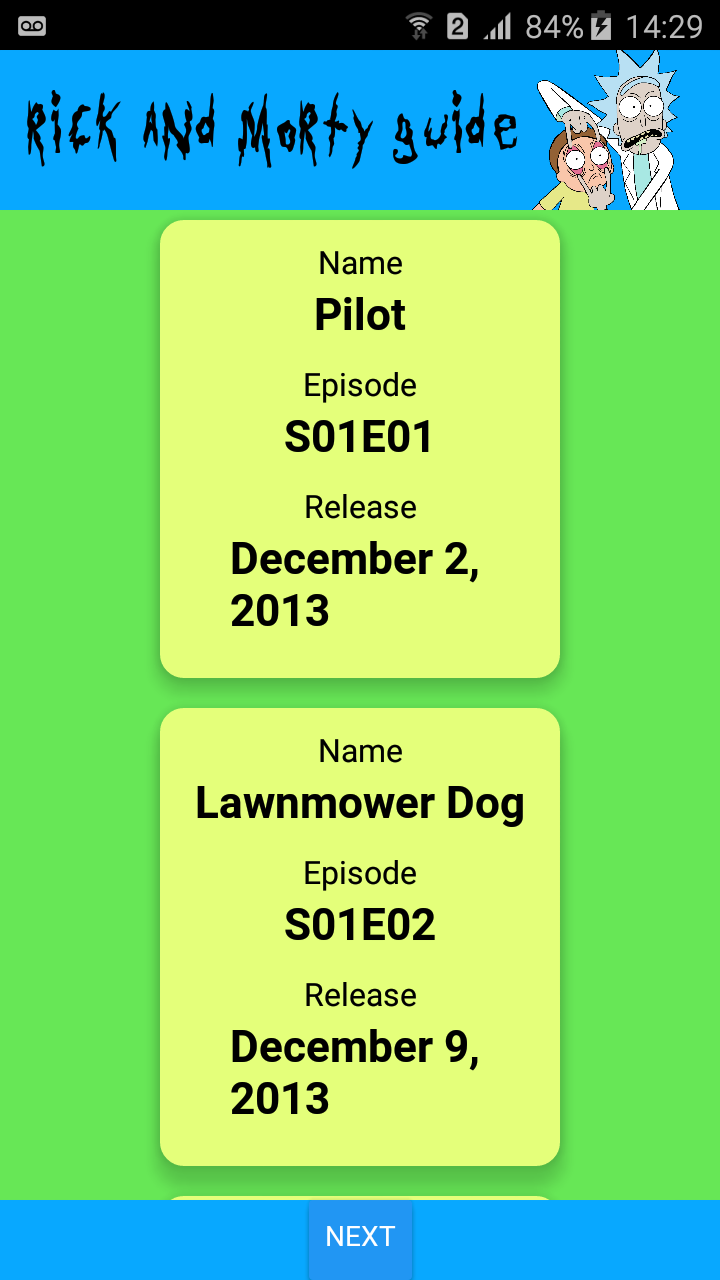
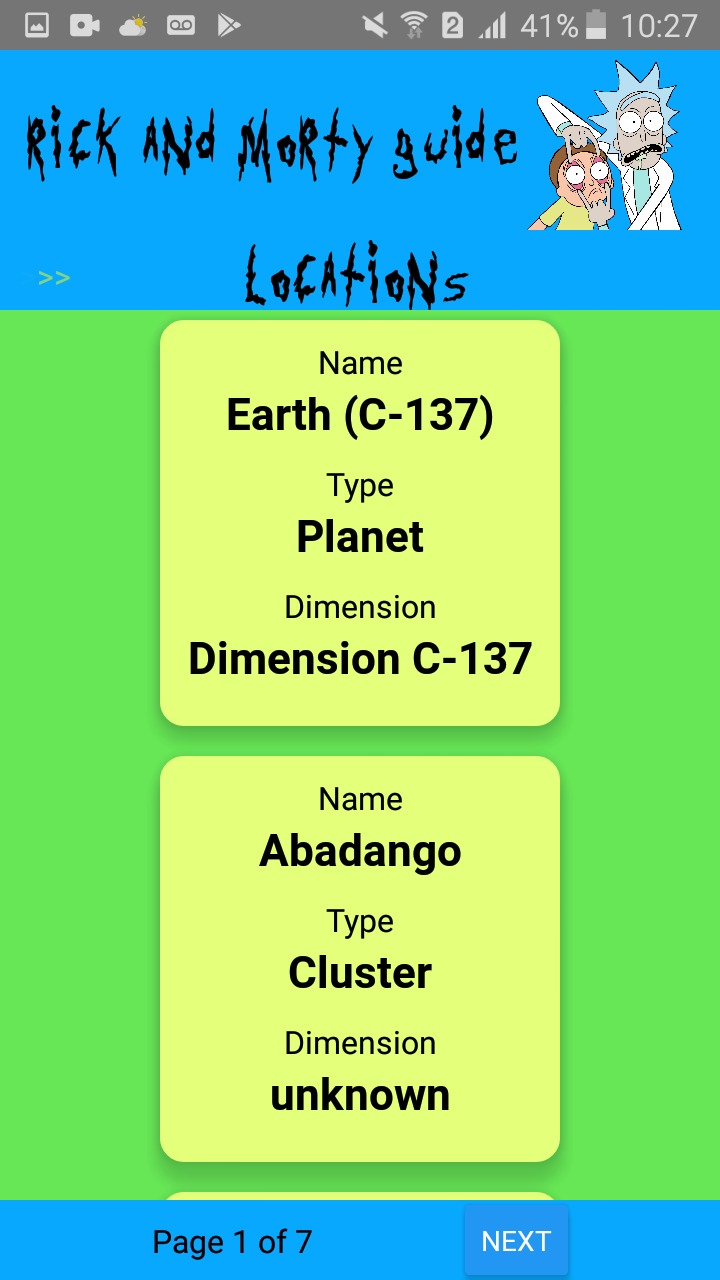
screenshots

Changed region(s): [[0.0, 0.0, 1.0, 0.875], [0.2444, 0.9062, 0.7944, 1.0], [0.2139, 0.9375, 0.3056, 1.0]]

diff --git a/TesteReactNative/src/Widgets/header/index.js b/TesteReactNative/src/Widgets/header/index.js
@@ -1,10 +1,10 @@
 import React from 'react'
 import { StyledHeader, StyledLogo, StyledRickandMorty } from './style'
-
-export default function Header({title}) {
-
+import { useWindowDimensions } from 'react-native'
+export default function Header({title} ) {
+  const windowWidth = useWindowDimensions().width
   return (
-    <StyledHeader>
+    <StyledHeader style={{width:windowWidth}}>
         <StyledRickandMorty testID="title">{title}</StyledRickandMorty>
         <StyledLogo testID="header-image" source={{uri:"https://pluspng.com/img-png/rick-and-morty-png-rick-and-morty-icon-png-1073.png"}}/>
     </StyledHeader>

diff --git a/TesteReactNative/src/pages/HomeScreen/index.js b/TesteReactNative/src/pages/HomeScreen/index.js
@@ -15,9 +15,9 @@ export default function Home({navigation}) {
         transitionStyle='curl'
         showPageIndicator={true}
       style={{flex:1}} initialPage={1}>
-        <View key="1"><Episodes navigation={navigation}/></View>
-        <View key="2"><Characters  navigation={navigation}/></View>
-        <View key="3"><Locations /></View>
+        <View key="1" style={{flex:1}}><Episodes navigation={navigation}/></View>
+        <View key="2" style={{flex:1}}><Characters  navigation={navigation}/></View>
+        <View key="3" style={{flex:1}}><Locations /></View>
       </PagerView>
     </>
   )

diff --git a/TesteReactNative/src/pages/Details/style.js b/TesteReactNative/src/pages/Details/style.js
@@ -3,15 +3,14 @@ import styled from "styled-components/native";
 
 export const StyledDetailsCard = styled.ScrollView`
     padding:10px;
-    width:100%;
-    height:100%;
+    flex:1;
     background-color:#67E756;
 `
 export const StyledEpisodeCard = styled.View`
     margin-top:10px;
     align-items:center;
     padding:10px;
-    width:80%;
+    width:200px;
     height:auto;
     border-radius:12px;
     border:2px solid black;

diff --git a/TesteReactNative/src/Widgets/screendescription/style.js b/TesteReactNative/src/Widgets/screendescription/style.js
@@ -1,10 +1,7 @@
 import styled from "styled-components/native";
 
 export const StyledScreenDescription = styled.View`
-
-     height:35px;
-    width:100%;
-   
+    height:35px;
     background-color:#08A8FF;
     flex-direction:row;
     justify-content:space-between;

diff --git a/TesteReactNative/src/pages/Episodes/style.js b/TesteReactNative/src/pages/Episodes/style.js
@@ -4,7 +4,7 @@ export const StyledPagination = styled.View`
     flex-direction:row;
     justify-content:space-evenly;
     height:40px;
-    width:100%;
+   flex:1;
     background-color:#08A8FF;
 `
 export const StyledPaginationButton = styled.Button`

diff --git a/TesteReactNative/src/components/expanded-card/style.js b/TesteReactNative/src/components/expanded-card/style.js
@@ -2,7 +2,6 @@ import styled from "styled-components/native"
 export const StyledExpandedCard = styled.View`
     margin-bottom:10px;
     elevation:10;
-    width:200px;
     padding:10px;
     align-items:center;
     height:auto;

diff --git a/TesteReactNative/src/Widgets/header/style.js b/TesteReactNative/src/Widgets/header/style.js
@@ -3,7 +3,7 @@ import styled from "styled-components/native";
 
 export const StyledHeader = styled.View`
     height:auto;
-    width:100%;
+    
     padding:5px;
     background-color:#08A8FF;
     flex-direction:row;

diff --git a/TesteReactNative/src/Widgets/footer/styled.js b/TesteReactNative/src/Widgets/footer/styled.js
@@ -5,6 +5,6 @@ export const StyledPageFooter = styled.View`
     justify-content:space-evenly;
     align-items:center;
     height:40px;
-    width:100%;
+    flex:1;
     background-color:#08A8FF;
 `

diff --git a/TesteReactNative/src/components/background/style.js b/TesteReactNative/src/components/background/style.js
@@ -2,7 +2,6 @@ import styled from "styled-components/native";
 
 
 export const StyledBackground = styled.ScrollView`
-    width:100%;
-    height:100%;
+    flex:1;
     background-color:#67E756;
 `
